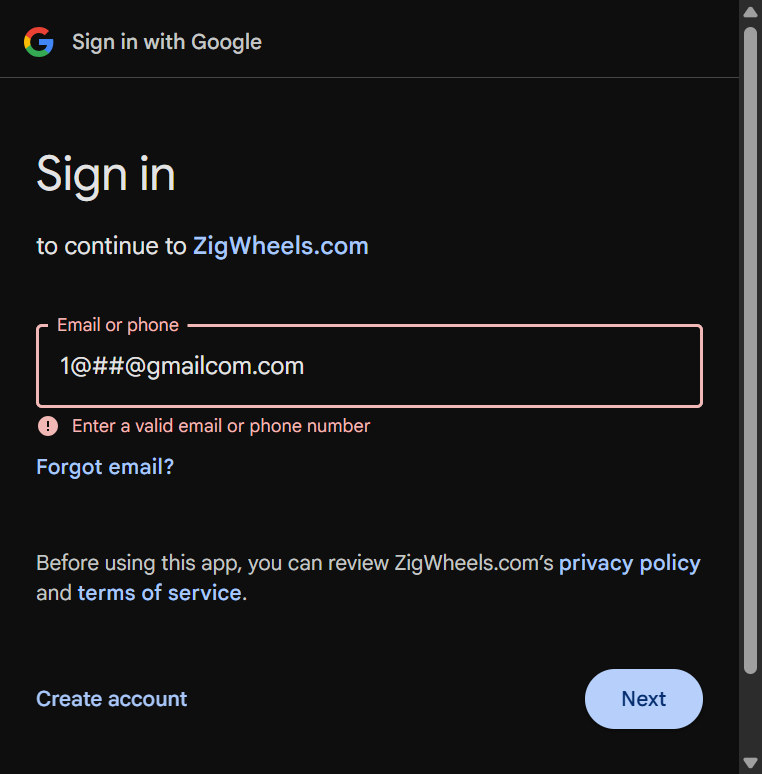
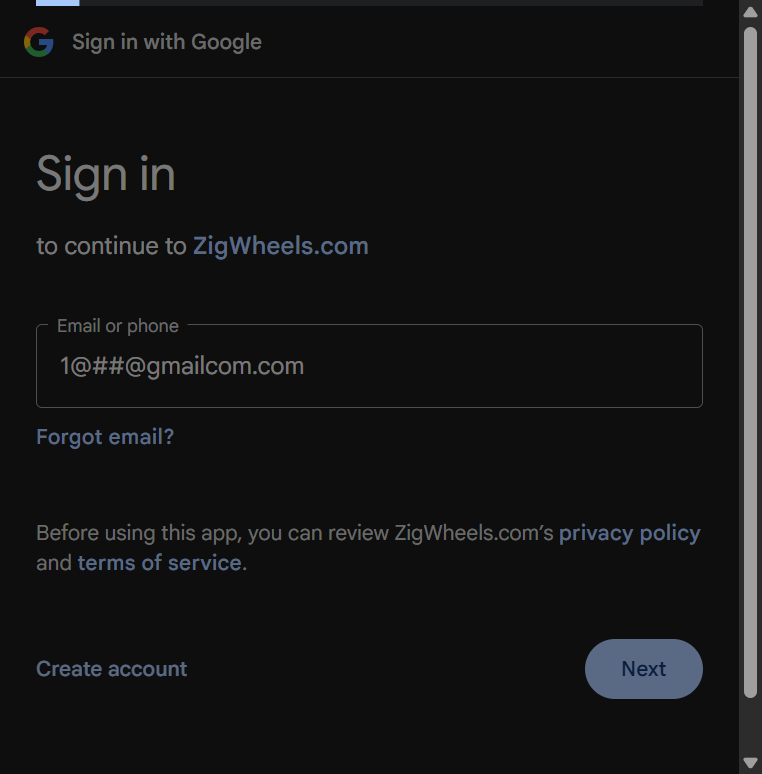
Added testing.xml file for Sequential testing

diff --git a/src/test/java/testCases/testCases/TC_004_InvalidUserDetails.java b/src/test/java/testCases/testCases/TC_004_InvalidUserDetails.java
@@ -1,0 +1,41 @@
+package testCases.testCases;
+
+import org.testng.Assert;
+import org.testng.annotations.Test;
+import pageObjects.InvalidLogin;
+import testBase.BaseClass;
+
+public class TC_004_InvalidUserDetails extends BaseClass {
+
+    @Test
+    public void invalidUserDetails() throws Exception {
+        try {
+            logger.info("** Started TC_004_InvalidUserDetails **");
+            InvalidLogin il = new InvalidLogin(driver);
+
+            il.clickLogin();
+            logger.info("Clicked on Login icon");
+
+            il.clickGoogleSignin();
+            logger.info("Selected Google as Signin Option");
+
+            il.switchingToSigninPage();
+            logger.info("Switched to Login Page");
+
+            il.givingUserInput("1@##@gmailcom.com");
+            logger.info("Invalid input is entered");
+
+            il.clickNextButton();
+            logger.info("Clicked on Next Button");
+
+            il.takeScreenShots();
+            logger.info("Captured a ScreenShot");
+
+            logger.info("** Finished TC_004_InvalidUserDetails **");
+        }
+        catch (Exception e){
+            logger.error("Error as Occured");
+            Assert.fail();
+        }
+    }
+}

diff --git a/src/test/java/testCases/testCases/TC_002_UpComingBikes.java b/src/test/java/testCases/testCases/TC_002_UpComingBikes.java
@@ -1,0 +1,35 @@
+package testCases.testCases;
+
+import org.testng.Assert;
+import org.testng.annotations.Test;
+import pageObjects.UpComingBikes;
+import testBase.BaseClass;
+
+public class TC_002_UpComingBikes extends BaseClass {
+
+    @Test
+    public void upComingBikesTest() throws InterruptedException {
+        try {
+            logger.info("** Starting TC_002_UpComingBikes **");
+            UpComingBikes up = new UpComingBikes(driver);
+
+            up.hoveronnewBikess();
+            logger.info("Hovered on NewBikes");
+
+            up.upcomingBikess();
+            logger.info("Clicked on Upcoming Bikes");
+
+            up.selectBikeModel();
+            logger.info("Selected the Bike Model");
+
+            up.bikesDetails();
+            logger.info("Retrieved Bike Details");
+
+            logger.info("** Finished TC_002_UpComingBikes **");
+        }
+        catch(Exception e){
+            logger.error("Error as occured");
+            Assert.fail();
+        }
+    }
+}

diff --git a/src/test/java/testCases/testCases/TC_003_UsedCars.java b/src/test/java/testCases/testCases/TC_003_UsedCars.java
@@ -1,0 +1,36 @@
+package testCases.testCases;
+
+import org.testng.Assert;
+import org.testng.annotations.Test;
+import pageObjects.usedCars;
+import testBase.BaseClass;
+
+public class TC_003_UsedCars extends BaseClass {
+
+    @Test
+    public void usedCars() throws InterruptedException {
+        try {
+            logger.info("** Started TC_003_UsedCars **");
+            usedCars us = new usedCars(driver);
+
+            us.hoverOverMore();
+            logger.info("Hovered over More");
+
+            us.clickUsedCars();
+            logger.info("Clicked on Used Cars");
+
+            us.clickChennai();
+            logger.info("Selected City as Chennai");
+
+            us.allModels();
+            logger.info("Retrieved all Popular Models");
+
+            logger.info("** Finished TC_003_UsedCars **");
+        }
+        catch(Exception e){
+            logger.error("Error as occured");
+            Assert.fail();
+        }
+    }
+
+}

diff --git a/src/test/java/testCases/testCases/TC_001_HomePage.java b/src/test/java/testCases/testCases/TC_001_HomePage.java
@@ -1,0 +1,29 @@
+package testCases.testCases;
+
+import org.testng.Assert;
+import org.testng.annotations.Test;
+import pageObjects.HomePage;
+import testBase.BaseClass;
+
+public class TC_001_HomePage extends BaseClass{
+
+    @Test
+    public void verify_account_registration() {
+        HomePage hp = new HomePage(driver);
+
+        String title = hp.getTitle(driver);
+        System.out.println("Test the link");
+        Assert.assertEquals(title, "New Cars, Bikes & Scooters, Used Cars, News & Reviews - ZigWheels");
+
+    }
+
+
+}
+
+
+
+
+
+
+
+

diff --git a/src/test/java/testBase/BaseClass.java b/src/test/java/testBase/BaseClass.java
@@ -31,8 +31,7 @@ public class BaseClass {
 
     @AfterClass
     public void tearDown() {
-
-        driver.close();
+        driver.quit();
     }
 
 
